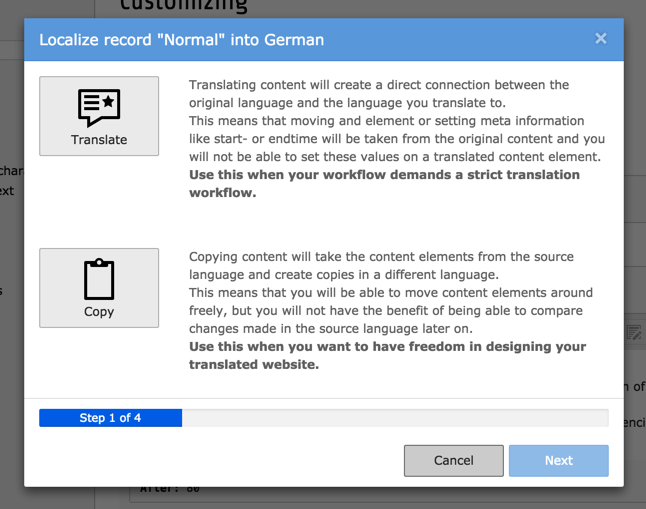
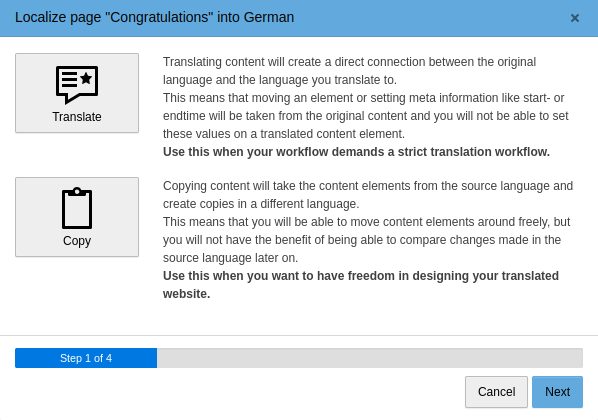
[TASK] Revise localized content chapter (#93)
Releases: main, 12.4, 11.5

---------

diff --git a/Documentation/LocalizedContent/Index.rst b/Documentation/LocalizedContent/Index.rst
@@ -1,175 +1,191 @@
-.. include:: /Includes.rst.txt
+..  include:: /Includes.rst.txt
 
+..  _localized-content:
 
-.. _localized-content:
-
+=================
 Localized content
------------------
+=================
+
+..  contents::
+    :local:
+
+
+Introduction
+============
 
 There are two strategies for handling the translation of content on pages:
 
--  **Connected mode:** Translating content will create a direct connection between the original
-   language and the language you translate to. This means that moving an
-   element or setting meta information like start- or endtime will be taken
-   from the original content and you will not be able to set these values
-   on a translated content element. Translated records will hold the
-   connection to their original language record in the "l10n_parent" field.
-   This mode is best for a strict translation workflow.
+Connected mode
+    Translating content will create a direct connection between the original
+    language and the language you translate to. This means that moving an
+    element or setting meta information like start time or end time will be
+    taken from the original content and you will not be able to set these values
+    on a translated content element. Translated records will hold the connection
+    to their original language record in the :sql:`l10n_parent` field.
+    This mode is best for a strict translation workflow.
 
--  **Free mode:** Copying content will take the content elements from the source language
-   and create copies in a different language. This means that you will be able
-   to move content elements around freely, but you will not have the benefit of
-   being able to compare changes made in the source language later on.
-   Use this mode, when the translated pages content can largely differ from
-   the original language and you want to have that freedom in designing your
-   translated website.
+Free mode
+    Copying content will take the content elements from the source language
+    and create copies in a different language. This means that you will be able
+    to move content elements around freely, but you will not have the benefit of
+    being able to compare changes made in the source language later on.
+    Use this mode, when the translated pages content can largely differ from
+    the original language and you want to have that freedom in designing your
+    translated website.
 
-When you start translating a page, the **WEB > Page** module will
-ask you about this choice.
+When you start translating a page, the :guilabel:`Web > Page` module will ask
+you about this choice when clicking on the :guilabel:`Translate` button:
 
-.. figure:: /Images/ManualScreenshots/PageModule/LocalizedContentTranslationWizard.png
-   :alt: The translation wizard showing localization strategies
+..  figure:: /Images/ManualScreenshots/PageModule/LocalizedContentTranslationWizard.png
+    :alt: The translation wizard showing localization strategies
+    :class: with-shadow
 
-   The translation wizard asks for a choice of localization strategy
+    The translation wizard asks for a choice of localization strategy
 
-
-The "Translate" button corresponds to the connected mode, the "Copy"
-button to the free mode. Furthers details on how to proceed with
+The :guilabel:`Translate` button corresponds to the connected mode, the
+:guilabel:`Copy` button to the free mode. Furthers details on how to proceed with
 translations are found in the :ref:`Editor's Tutorial <t3editors:languages>`.
 
 
-.. _localized-connected-content:
+..  _localized-connected-content:
 
 Connected content
-"""""""""""""""""
+=================
 
 If you opted for the connected content strategy, this is the default way
 that translated pages will be handled in the frontend and requires
-no further configuration in the site config.
-In the site config, the fallbackType "strict" would look like this:
+no further configuration in the :ref:`site configuration <t3coreapi:sitehandling>`.
+In the site configuration, the fallbackType "strict" would look like this:
 
-.. code-block:: yaml
-   :caption: config/sites/my_site/config.yaml
+..  code-block:: yaml
+    :caption: config/sites/my_site/config.yaml
 
-   languages:
-     -
-       # ... other language settings ...
-       fallbackType: strict
+    languages:
+      -
+        # ... other language settings ...
+        fallbackType: strict
 
 In this connected mode, TYPO3 will first internally fetch the records of the
 default language, then overlay them with the target language. If a record is
-not translated into the target language, then it is discarded and not shown at all.
+not translated into the target language, then it is discarded and not shown at
+all.
 
 The German version will be reduced to the actually translated elements:
 
-.. figure:: /Images/ManualScreenshots/Frontend/LocalizedContentNoOverlay.png
-   :alt: English and German translation without overlays
-   :class: with-border with-shadow
+..  figure:: /Images/ManualScreenshots/Frontend/LocalizedContentNoOverlay.png
+    :alt: English and German translation without overlays
+    :class: with-shadow
 
+    English and German translation without overlays
 
+Another way to view connected content in the frontend is by creating a fallback
+chain. For this we have to adjust the site configuration and provide a
+comma-separated list of fallback languages:
 
-Another way to view "connected" content in the frontend is by creating a fallback
-chain. For this we have to adjust the site configuration and provide a comma separated
-list of fallback languages:
+..  code-block:: yaml
+    :caption: config/sites/my_site/config.yaml
 
-.. code-block:: yaml
-   :caption: config/sites/my_site/config.yaml
-
-   languages:
-     -
-       # ... other language settings ...
-       fallbackType: fallback
-       # 1 = Danish, 0 = English
-       fallbacks: '1,0'
+    languages:
+      -
+        # ... other language settings ...
+        fallbackType: fallback
+        # 1 = Danish, 0 = English
+        fallbacks: '1,0'
 
 In this mode, TYPO3 will also first internally fetch the records of the
 default language and then overlay them with the target language. If no translation
 exists for the target language, it will now go from left to right through the
-fallback chain and first try to find a translation for the languageId 1 (Danish) and
-if that is a miss as well, fall back to languageId 0 (English).
+fallback chain and first try to find a translation for the language ID 1 (Danish)
+and, if that is a miss as well, fall back to language ID 0 (English).
 
-.. figure:: /Images/ManualScreenshots/Frontend/LocalizedContentTranslationOverlay.png
-   :alt: English and German translation with overlays
-   :class: with-border with-shadow
+..  figure:: /Images/ManualScreenshots/Frontend/LocalizedContentTranslationOverlay.png
+    :alt: English and German translation with overlays
+    :class: with-shadow
 
-   The English version and its German translation, with overlays
+    The English version and its German translation, with overlays
 
-.. warning::
+..  warning::
+    If you want to use the "connected content" paradigm in conjunction with the
+    :ref:`"Hide default translation of the page" <localization-overview-hide-default-language>`
+    setting, you will need to provide placeholder content elements
+    in the default language and translate them, since the whole frontend
+    rendering process starts from the default language in such a configuration.
 
-   If you want to use the "connected content" paradigm in conjunction with the
-   :ref:`"Hide default translation of the page" <localization-overview-hide-default-language>`
-   setting, you will need to provide placeholder content elements
-   in the default language and translate them, since the whole frontend
-   rendering process starts from the default language in such a configuration.
-
-.. _localized-content-free-content:
+..  _localized-content-free-content:
 
 Free content
-""""""""""""
+============
 
-With the free mode content strategy, the site config will have to be
+With the free mode content strategy, the
+:ref:`site configuration <t3coreapi:sitehandling>` will have to be
 adjusted accordingly:
 
-.. code-block:: yaml
-   :caption: config/sites/my_site/config.yaml
+..  code-block:: yaml
+    :caption: config/sites/my_site/config.yaml
 
-   languages:
-     -
-       # ... other language settings ...
-       fallbackType: free
+    languages:
+      -
+        # ... other language settings ...
+        fallbackType: free
 
 This means, TYPO3 will directly fetch the translated records and not care
 about the records in the default language at all.
 
-.. tip::
+..  tip::
     For more information on how to add languages and configure their
-    behaviour in the site configuration, please see
-    :ref:`Adding Languages <sitehandling-addinglanguages>`
+    behaviour in the site configuration, see
+    :ref:`Adding Languages <sitehandling-addinglanguages>`.
 
 
-.. _localized-content-all-language:
+..  _localized-content-all-language:
 
 The "All" language
-""""""""""""""""""
+==================
 
 When using overlays, it becomes possible to use a particular
 language called "All", which will be automatically visible across all
 translations. The uid of that particular language is "-1".
 
-.. figure:: /Images/ManualScreenshots/Record/LocalizedContentAllLanguageDefined.png
-   :alt: Content element in "All" language
+..  figure:: /Images/ManualScreenshots/Record/LocalizedContentAllLanguageDefined.png
+    :alt: Content element in "All" language
+    :class: with-shadow
 
-   A content element valid for all languages
+    A content element valid for all languages
 
-It is also marked with the special language icon in the **WEB > Page**
+It is also marked with the special language icon in the :guilabel:`Web > Page`
 module:
 
-.. figure:: /Images/ManualScreenshots/PageModule/LocalizedContentAllLanguagePageModule.png
-   :alt: "All" language in the Page Module
+..  figure:: /Images/ManualScreenshots/PageModule/LocalizedContentAllLanguagePageModule.png
+    :alt: "All" language in the Page Module
+    :class: with-shadow
 
-   An "All" language content element displayed in the Web > Page
+    An "All" language content element displayed in the :guilabel:`Web > Page` module
 
-Note that no "Translate" button appears, the new content element
+Note that no :guilabel:`Translate` button appears, the new content element
 is valid for all languages.
 
 
-.. _localized-content-inline-elements:
+..  _localized-content-inline-elements:
 
 Localizing inline elements (IRRE)
-"""""""""""""""""""""""""""""""""
+=================================
 
-When localizing a record with inline elements (aka. IRRE), the inline
-elements will be grayed out and not automatically localized. TYPO3
+When localizing a record with :ref:`inline elements (IRRE) <columns-inline>`,
+the inline elements will be grayed out and not automatically localized. TYPO3
 will display two buttons to help you localize and keep the elements in
 sync.
 
-.. figure:: ../Images/LocalizedContentLocalizingIrreElements.png
-   :alt: Buttons for localizing and synchronizing inline elements.
+..  figure:: ../Images/LocalizedContentLocalizingIrreElements.png
+    :alt: Buttons for localizing and synchronizing inline elements
+    :class: with-shadow
 
-* **Localize all records (1)** creates localized versions of all inline
-  elements from the default language in your current language so that
-  you can translate them. Each element that has not yet been localized
-  will also have a "Localize" button (3) that will allow you to localize
-  individual elements.
-* **Synchronize with original language (2)** can be clicked when you have
-  translated the elements and the content in the default language changed.
+    Buttons for localizing and synchronizing inline elements
+
+**Localize all records (1)** creates localized versions of all inline
+elements from the default language in your current language so that
+you can translate them. Each element that has not yet been localized
+will also have a :guilabel:`Localize` button (3) that will allow you to localize
+individual elements.
+
+**Synchronize with original language (2)** can be clicked when you have
+translated the elements and the content in the default language changed.
